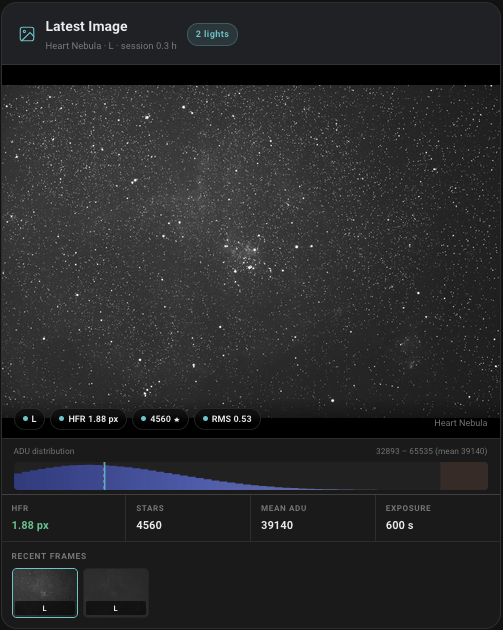
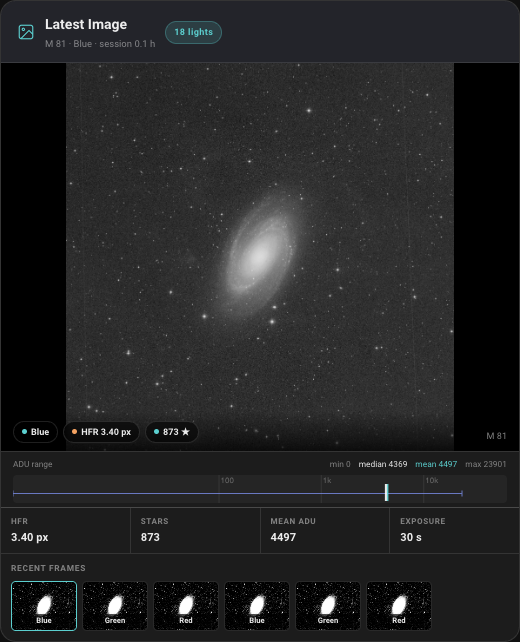
fix: the image panel's ADU bar is drawn from the frame's statistics (#176)

diff --git a/custom_components/nina_astrophotography/www/nina-image-panel-card.js b/custom_components/nina_astrophotography/www/nina-image-panel-card.js
@@ -2,7 +2,7 @@
  * N.I.N.A. Image Panel Card
  *
  * Displays the last captured image from N.I.N.A., with a live stats overlay,
- * session image strip, and histogram visualisation.
+ * session image strip, and the frame's ADU range.
  *
  * Images never come from N.I.N.A. directly: its Advanced API is plain
  * HTTP-only, and a dashboard served over HTTPS would have every such fetch
@@ -19,8 +19,14 @@
  * Everything describing a frame comes from the mean-ADU sensor's
  * `recent_frames` attribute — the newest frames of any type, already bounded
  * and ordered, each with its own readings — so the overlay, the stats row and
- * the histogram describe the frame on screen, whichever it is. Only the
+ * the ADU range describe the frame on screen, whichever it is. Only the
  * header's light count, integration time and exposing state are the session's.
+ *
+ * The ADU range is those statistics, not a histogram: a histogram needs the
+ * frame's pixels. Every `/image` render is stretched, `autoPrepare=false`
+ * included, so a preview's pixels describe the picture, not the frame. Only
+ * `raw_fits` returns the frame's own values, at the whole frame's size again
+ * (#178).
  *
  * Each N.I.N.A. render is a full FITS load and stretch on the imaging PC, so
  * the panel asks for as few as it can: one main load at a time, the newest
@@ -34,7 +40,7 @@
  *   prefix: n_i_n_a         # fallback only, for the entities that cannot resolve
  *   refresh_on_save: true   # load each frame as N.I.N.A. saves it (default true)
  *   show_strip: true        # show recent-frames strip at bottom (default true)
- *   show_histogram: true    # show ADU histogram bar (default true)
+ *   show_histogram: true    # show the frame's ADU range (default true)
  *   quality: 85             # JPEG quality 1-100 (default 85)
  *   stretch: true           # use N.I.N.A.'s auto-stretch (default true)
  *   strip_count: 6          # number of thumbnails in the recent strip (default 6)
@@ -61,6 +67,14 @@ const THUMB_WIDTH = 64;
 // Device pixels across for a preview the card could not measure.
 const FALLBACK_PREVIEW_WIDTH = 1600;
 
+// N.I.N.A. holds frames as 16-bit unsigned, so no statistic exceeds this; a
+// camera whose driver does not scale to 16 bits saturates lower.
+const ADU_FULL_SCALE = 65535;
+
+// The ADU bar is logarithmic: a light's background sits in the hundreds to a
+// few thousand, a flat's in the tens of thousands.
+const ADU_GRIDLINES = [[100, "100"], [1000, "1k"], [10000, "10k"]];
+
 // An absent field is undefined; the integration publishes no reading as null.
 function finite(value) {
   return Number.isFinite(value) ? value : null;
@@ -84,6 +98,10 @@ function hideUntilLoaded(img) {
 
 const STYLE = `
   :host {
+    /* A custom element is inline by default, and a ResizeObserver watching an
+       inline box does not report the card getting wider — which is what
+       redraws the ADU range. */
+    display: block;
     --bg:      var(--ha-card-background, var(--card-background-color, #12121e));
     --border:  var(--divider-color, rgba(255,255,255,0.1));
     --accent:  #7b8de8;
@@ -185,21 +203,28 @@ const STYLE = `
   .no-image svg { opacity: 0.3; }
   .no-image .hint { font-size: 0.68rem; opacity: 0.7; text-align: center; }
 
-  .histogram-wrap {
+  .adu-wrap {
     padding: 6px 12px 4px;
     border-top: 1px solid var(--border);
   }
-  .histogram-label {
-    display: flex; justify-content: space-between;
+  .adu-label {
+    display: flex; justify-content: space-between; gap: 8px;
     font-size: 0.6rem; color: var(--muted);
     margin-bottom: 3px;
   }
-  .histogram-bar {
+  .adu-label > span:first-child, .adu-label span span { white-space: nowrap; }
+  #adu-range {
+    display: flex; flex-wrap: wrap; justify-content: flex-end;
+    column-gap: 8px;
+  }
+  .adu-label .median { color: var(--text); }
+  .adu-label .mean { color: var(--accent2); }
+  .adu-bar {
     position: relative; height: 28px;
     background: rgba(255,255,255,0.04);
     border-radius: 4px; overflow: hidden;
   }
-  canvas.hist-canvas { position: absolute; inset: 0; width: 100%; height: 100%; }
+  canvas.adu-canvas { position: absolute; inset: 0; width: 100%; height: 100%; }
 
   .stats-row {
     display: grid; grid-template-columns: repeat(4, 1fr);
@@ -293,6 +318,21 @@ class NinaImagePanelCard extends HTMLElement {
     this._grace = new LinkGrace(() => { this.hass = this._hass; });
   }
 
+  connectedCallback() {
+    // The ADU range is redrawn only with a frame, so a resize would otherwise
+    // stretch its gridlines and labels until the next one.
+    if (typeof ResizeObserver === "undefined" || this._observer) return;
+    this._observer = new ResizeObserver(() => {
+      if (this._config?.show_histogram) this._drawAduRange();
+    });
+    this._observer.observe(this);
+  }
+
+  disconnectedCallback() {
+    this._observer?.disconnect();
+    this._observer = undefined;
+  }
+
   setConfig(config) {
     this._config = {
       refresh_on_save: config.refresh_on_save ?? true,
@@ -347,12 +387,12 @@ class NinaImagePanelCard extends HTMLElement {
       if (this._config.refresh_on_save || !this._hasImage) this._load(newest);
     }
 
-    // The histogram too: before a frame loads, it describes the newest.
+    // The ADU range too: before a frame loads, it describes the newest.
     const stripKey = JSON.stringify(this._recentFrames());
     if (stripKey !== this._stripKey) {
       this._stripKey = stripKey;
       if (this._config.show_strip) this._loadStrip();
-      if (this._config.show_histogram) this._drawHistogram();
+      if (this._config.show_histogram) this._drawAduRange();
     }
 
     this._updateOverlay();
@@ -477,13 +517,13 @@ class NinaImagePanelCard extends HTMLElement {
         </div>
 
         ${cfg.show_histogram ? `
-          <div class="histogram-wrap">
-            <div class="histogram-label">
-              <span>ADU distribution</span>
-              <span id="hist-range">—</span>
+          <div class="adu-wrap">
+            <div class="adu-label">
+              <span>ADU range</span>
+              <span id="adu-range">—</span>
             </div>
-            <div class="histogram-bar">
-              <canvas class="hist-canvas" id="hist-canvas"></canvas>
+            <div class="adu-bar">
+              <canvas class="adu-canvas" id="adu-canvas"></canvas>
             </div>
           </div>
         ` : ""}
@@ -584,7 +624,7 @@ class NinaImagePanelCard extends HTMLElement {
         noImg && (noImg.style.display = "flex");
       }
     }
-    if (this._config.show_histogram) this._drawHistogram();
+    if (this._config.show_histogram) this._drawAduRange();
     this._updateStripActive();
     // Held: the readings are `unavailable`; keep the ones on screen.
     if (!this._grace.holding) {
@@ -678,91 +718,70 @@ class NinaImagePanelCard extends HTMLElement {
     }
   }
 
-  _drawHistogram() {
-    const canvas = this.shadowRoot?.getElementById("hist-canvas");
+  _drawAduRange() {
+    const canvas = this.shadowRoot?.getElementById("adu-canvas");
     if (!canvas) return;
 
     // All of it from the frame on screen, out of `recent_frames`. The mean-ADU
     // sensor is no fallback: it holds the newest light's, and the frame on
     // screen may be a flat.
     const frame = this._frame();
-    const mean = finite(frame.mean);
     const min = finite(frame.min);
+    const median = finite(frame.median);
+    const mean = finite(frame.mean);
     const max = finite(frame.max);
-    const median = finite(frame.median) ?? mean;
 
-    // Sizing the canvas wipes it, so a frame with no curve leaves it empty.
+    // Sizing the canvas wipes it, so a frame with no statistics leaves it empty.
     const W = canvas.offsetWidth || 300;
     const H = canvas.offsetHeight || 28;
     const dpr = window.devicePixelRatio || 1;
     canvas.width  = W * dpr;
     canvas.height = H * dpr;
 
-    const rangeEl = this.shadowRoot?.getElementById("hist-range");
-    if (mean === null || min === null || max === null || max <= 0) {
-      if (rangeEl) rangeEl.textContent = "—";
-      return;
-    }
-    if (rangeEl) {
-      rangeEl.textContent = `${Math.round(min)} – ${Math.round(max)} (mean ${Math.round(mean)})`;
-    }
-
-    if (max <= min) return;
+    const label = [["min", min], ["median", median], ["mean", mean], ["max", max]]
+      .filter(([, value]) => value !== null)
+      .map(([name, value]) => `<span class="${name}">${name} ${Math.round(value)}</span>`)
+      .join("");
+    const rangeEl = this.shadowRoot?.getElementById("adu-range");
+    if (rangeEl) rangeEl.innerHTML = label || "—";
+    if (!label) return;
 
     const ctx = canvas.getContext("2d");
     ctx.scale(dpr, dpr);
+    const x = (adu) => W * Math.log1p(Math.max(adu, 0)) / Math.log1p(ADU_FULL_SCALE);
 
-    // A simplified gaussian histogram from min/max/mean/median.
-    const range = max - min;
-    const bars = 60;
-    const sigma = (max - min) * 0.18;
-    const vals = Array.from({ length: bars }, (_, i) => {
-      const x = min + (i / bars) * range;
-      const g = Math.exp(-0.5 * ((x - mean) / sigma) ** 2);
-      // A slight skew toward shadows, typical of an astrophoto histogram.
-      const skew = 1 + 0.4 * Math.exp(-0.5 * ((x - min) / (range * 0.15)) ** 2);
-      return g * skew;
-    });
-    const peakVal = Math.max(...vals);
-
-    const grad = ctx.createLinearGradient(0, 0, W, 0);
-    grad.addColorStop(0,   "rgba(60,80,180,0.7)");
-    grad.addColorStop(0.4, "rgba(100,120,220,0.8)");
-    grad.addColorStop(0.7, "rgba(150,170,255,0.6)");
-    grad.addColorStop(1,   "rgba(200,210,255,0.4)");
-
-    ctx.beginPath();
-    const bw = W / bars;
-    ctx.moveTo(0, H);
-    for (let i = 0; i < bars; i++) {
-      const bh = (vals[i] / peakVal) * H * 0.9;
-      ctx.lineTo(i * bw, H - bh);
-      ctx.lineTo((i + 1) * bw, H - bh);
+    ctx.font = "8px sans-serif";
+    ctx.textBaseline = "top";
+    for (const [adu, text] of ADU_GRIDLINES) {
+      ctx.fillStyle = "rgba(255,255,255,0.08)";
+      ctx.fillRect(x(adu), 0, 1, H);
+      ctx.fillStyle = "rgba(255,255,255,0.3)";
+      ctx.fillText(text, x(adu) + 2, 1);
     }
-    ctx.lineTo(W, H);
-    ctx.closePath();
-    ctx.fillStyle = grad;
-    ctx.fill();
 
-    const meanX = ((mean - min) / range) * W;
-    ctx.beginPath();
-    ctx.moveTo(meanX, 0); ctx.lineTo(meanX, H);
-    ctx.strokeStyle = "rgba(91,207,207,0.8)";
-    ctx.lineWidth = 1.5;
-    ctx.stroke();
+    // A whisker, not a box: min and max are single pixels — a cold one and a
+    // star core — while nearly every pixel sits near the median.
+    const mid = (H + 9) / 2;
+    if (min !== null && max !== null) {
+      ctx.beginPath();
+      ctx.moveTo(x(min), mid); ctx.lineTo(x(max), mid);
+      ctx.moveTo(x(min), mid - 3); ctx.lineTo(x(min), mid + 3);
+      ctx.moveTo(x(max), mid - 3); ctx.lineTo(x(max), mid + 3);
+      ctx.strokeStyle = "rgba(123,141,232,0.8)";
+      ctx.lineWidth = 1;
+      ctx.stroke();
+    }
 
-    const medX = ((median - min) / range) * W;
-    ctx.beginPath();
-    ctx.moveTo(medX, 0); ctx.lineTo(medX, H);
-    ctx.strokeStyle = "rgba(255,255,255,0.3)";
-    ctx.lineWidth = 1;
-    ctx.setLineDash([3, 3]);
-    ctx.stroke();
-    ctx.setLineDash([]);
-
-    const satX = ((max * 0.95 - min) / range) * W;
-    ctx.fillStyle = "rgba(231,111,81,0.15)";
-    ctx.fillRect(satX, 0, W - satX, H);
+    const tick = (adu, style, width) => {
+      if (adu === null) return;
+      ctx.beginPath();
+      ctx.moveTo(x(adu), 9); ctx.lineTo(x(adu), H - 2);
+      ctx.strokeStyle = style;
+      ctx.lineWidth = width;
+      ctx.stroke();
+    };
+    tick(median, "rgba(255,255,255,0.9)", 3);
+    tick(mean, "rgba(91,207,207,0.95)", 1.5);
   }
 
   _updateOverlay() {
@@ -907,7 +926,7 @@ class NinaImagePanelCard extends HTMLElement {
       {
         name: "show_histogram",
         label: "Show ADU range",
-        helper: "Min, mean and max ADU of the frame on screen.",
+        helper: "Min, median, mean and max ADU of the frame on screen, on a log scale.",
         ...toggle,
       },
       { name: "show_strip", label: "Show recent frames", ...toggle },
@@ -944,7 +963,7 @@ window.customCards = window.customCards || [];
 window.customCards.push({
   type: "nina-image-panel-card",
   name: "N.I.N.A. Image Panel",
-  description: "Live last-frame viewer with stats overlay, histogram, and frame strip.",
+  description: "Live last-frame viewer with stats overlay, ADU range, and frame strip.",
   preview: false,
   documentationURL: "https://github.com/dgivens/homeassistant-nina-astrophotography#lovelace-cards",
 });

diff --git a/CHANGELOG.md b/CHANGELOG.md
@@ -40,6 +40,16 @@ All notable changes to the N.I.N.A. Astrophotography Home Assistant integration 
 
 ### Fixed
 
+- **The image panel's ADU bar is drawn from the frame's statistics** (#114).
+  It used to draw a made-up bell curve around the mean, the same shape for a
+  good frame as for a bad one. It now marks the frame's median, its mean and
+  a whisker from min to max on a logarithmic axis from 0 to 65535, with
+  gridlines at 100, 1k and 10k, so a light's background and a flat's level
+  can both be read. The card has no pixel data, so this is a range, not a
+  histogram, and it cannot show how much of a frame is clipped. A max of
+  65535 is normal: star cores and hot pixels saturate. A camera whose driver
+  does not scale to 16 bits saturates lower, so its whisker stops short of
+  the right edge. The `show_histogram` option still turns it on and off.
 - **The frame statistics card reads the newest run, not the whole night**
   (#105). A run is the lights since the last target change that share the
   newest light's filter and exposure, interleaved filters and all. The star

diff --git a/docs/reference.md b/docs/reference.md
@@ -398,6 +398,15 @@ card, an ApexCharts `data_generator`, or a template. For history, chart
   the earliest end. N.I.N.A. also stops early when the next exposure would not
   finish by the latest end.
 
+- `sensor.<instance>_last_image_mean_adu` has `recent_frames`: the newest
+  frames of every type, newest first, each with its target, filter, exposure,
+  HFR, star count, guide RMS and N.I.N.A.'s min, median, mean and max ADU. The
+  image panel card draws its ADU range from these. They are statistics, not a
+  histogram like the one in N.I.N.A.'s Statistics panel: the Advanced API
+  publishes none. Building one means fetching the whole raw frame a second
+  time, which a remote observatory is already sending elsewhere. Issue #178
+  tracks doing it as an option.
+
 ## Error events
 
 `event.<instance>_error` fires `platesolve_failed`, `camera_download_timeout`
